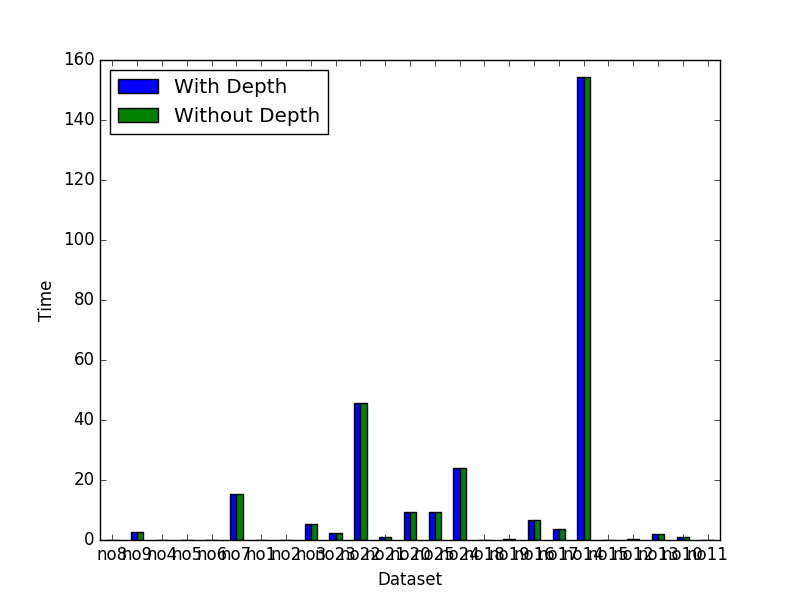
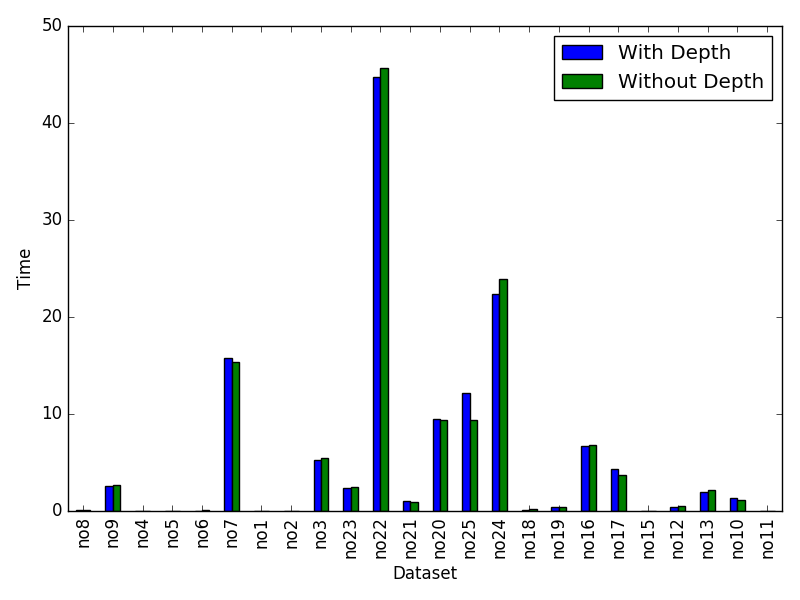
testing changes

Changed region(s): [[0.0, 0.03, 1.0, 0.99]]

diff --git a/analysis.py b/analysis.py
@@ -17,7 +17,7 @@ import matplotlib.pyplot as plt
 res = {}
 
 directory1 = "./experiment_results"
-directory2 = "./benchmarks"
+directory2 = "./experiment_original"
 
 def get_data(directory):
     res = {}
@@ -64,18 +64,29 @@ times1 = df['Time']
 print(times1)
 
 res2 = get_data(directory2)
-df2 = pd.DataFrame.from_dict(res, orient='index', columns=['Level', 'Iter', 'Time'])
+df2 = pd.DataFrame.from_dict(res2, orient='index', columns=['Level', 'Iter', 'Time'])
 # df = df.rename(index=['Level', 'Iter', 'Time'])
 # print(df2)
 
 times2 = df2['Time']
-print(times2)
 
 dfplot = pd.DataFrame({"Without Depth":times1,"With Depth":times2})
-ax = dfplot.plot.bar(rot=0)
+ax = dfplot.plot.bar()
 ax.set_xlabel("Dataset")
 ax.set_ylabel("Time")
+
+plt.tight_layout()
 plt.savefig("time.png")
+
+
+dfplot = pd.DataFrame({"Without Depth":df['Iter'],"With Depth":df2['Iter']})
+ax = dfplot.plot.bar()
+ax.set_xlabel("Dataset")
+ax.set_ylabel("Iter")
+
+plt.tight_layout()
+plt.savefig("iter.png")
+
 
 
 df['Key'] = 'WithoutDepth'
